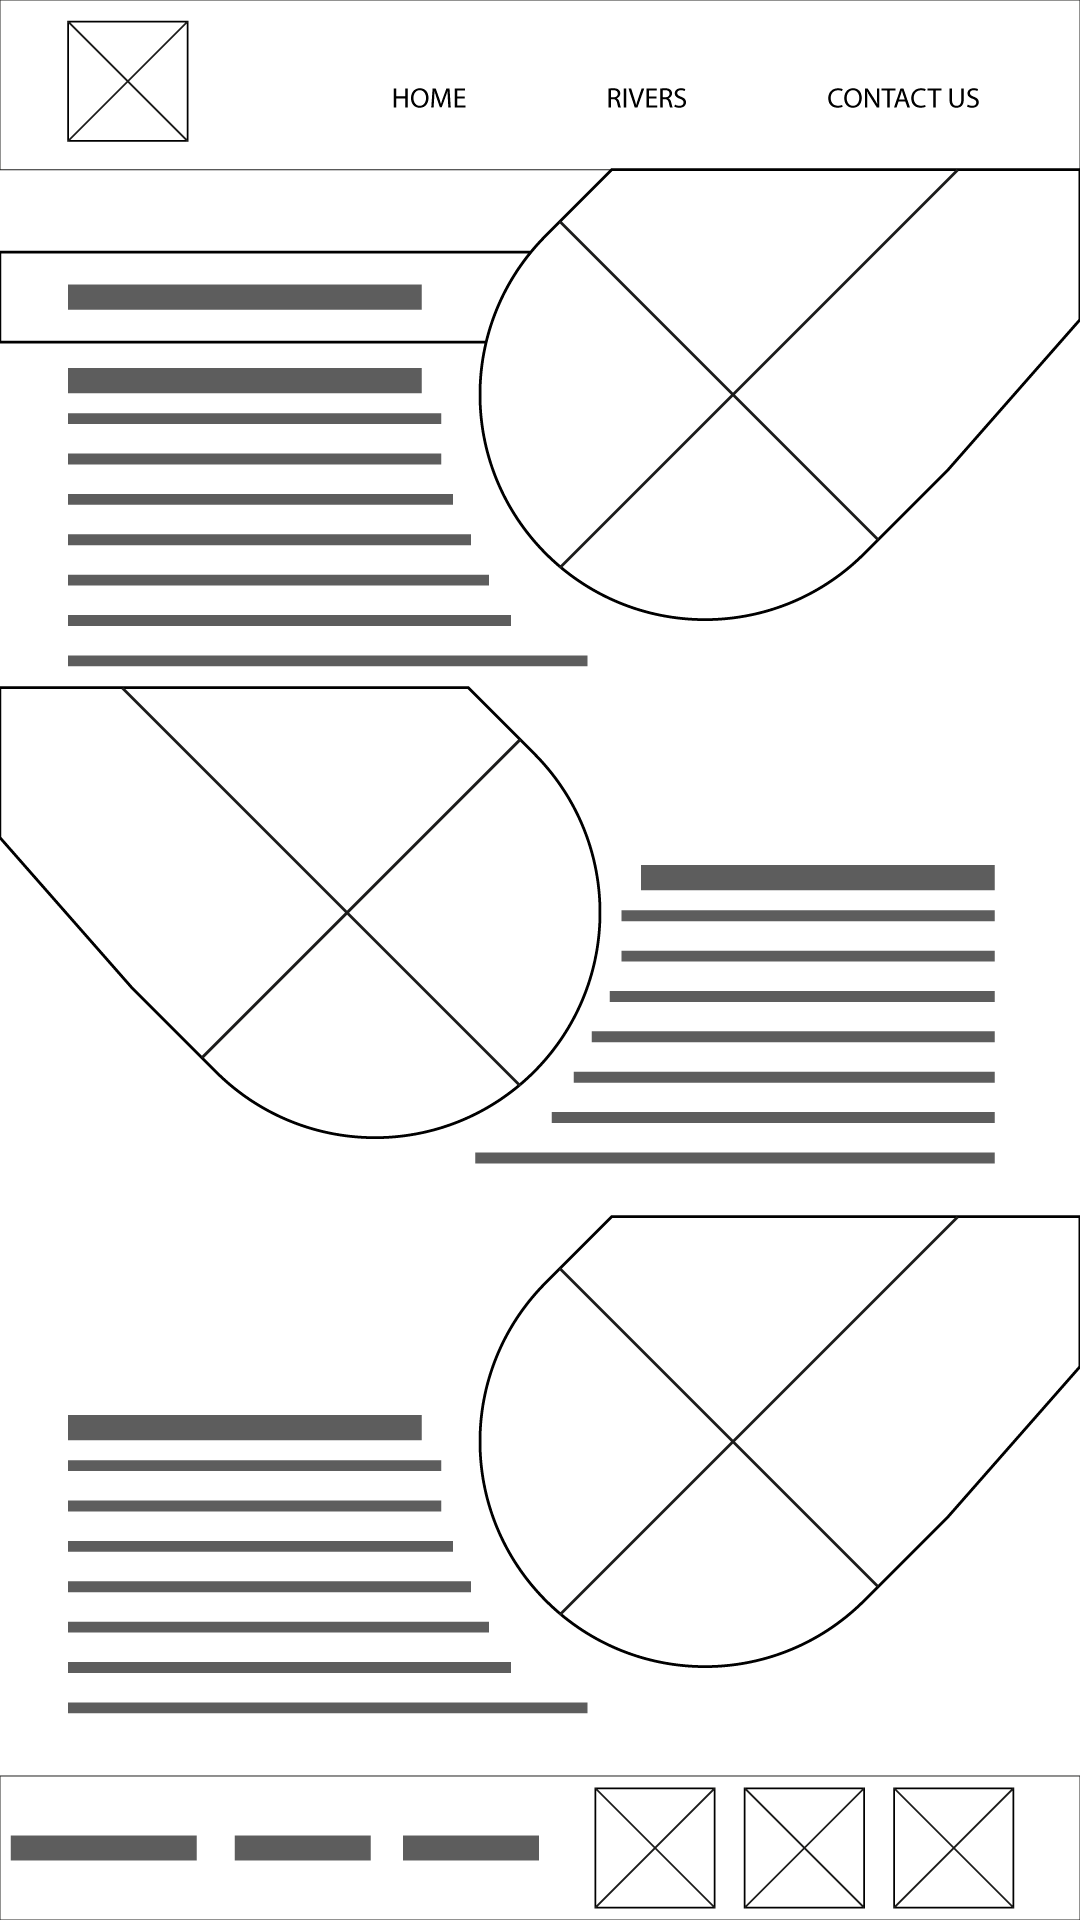
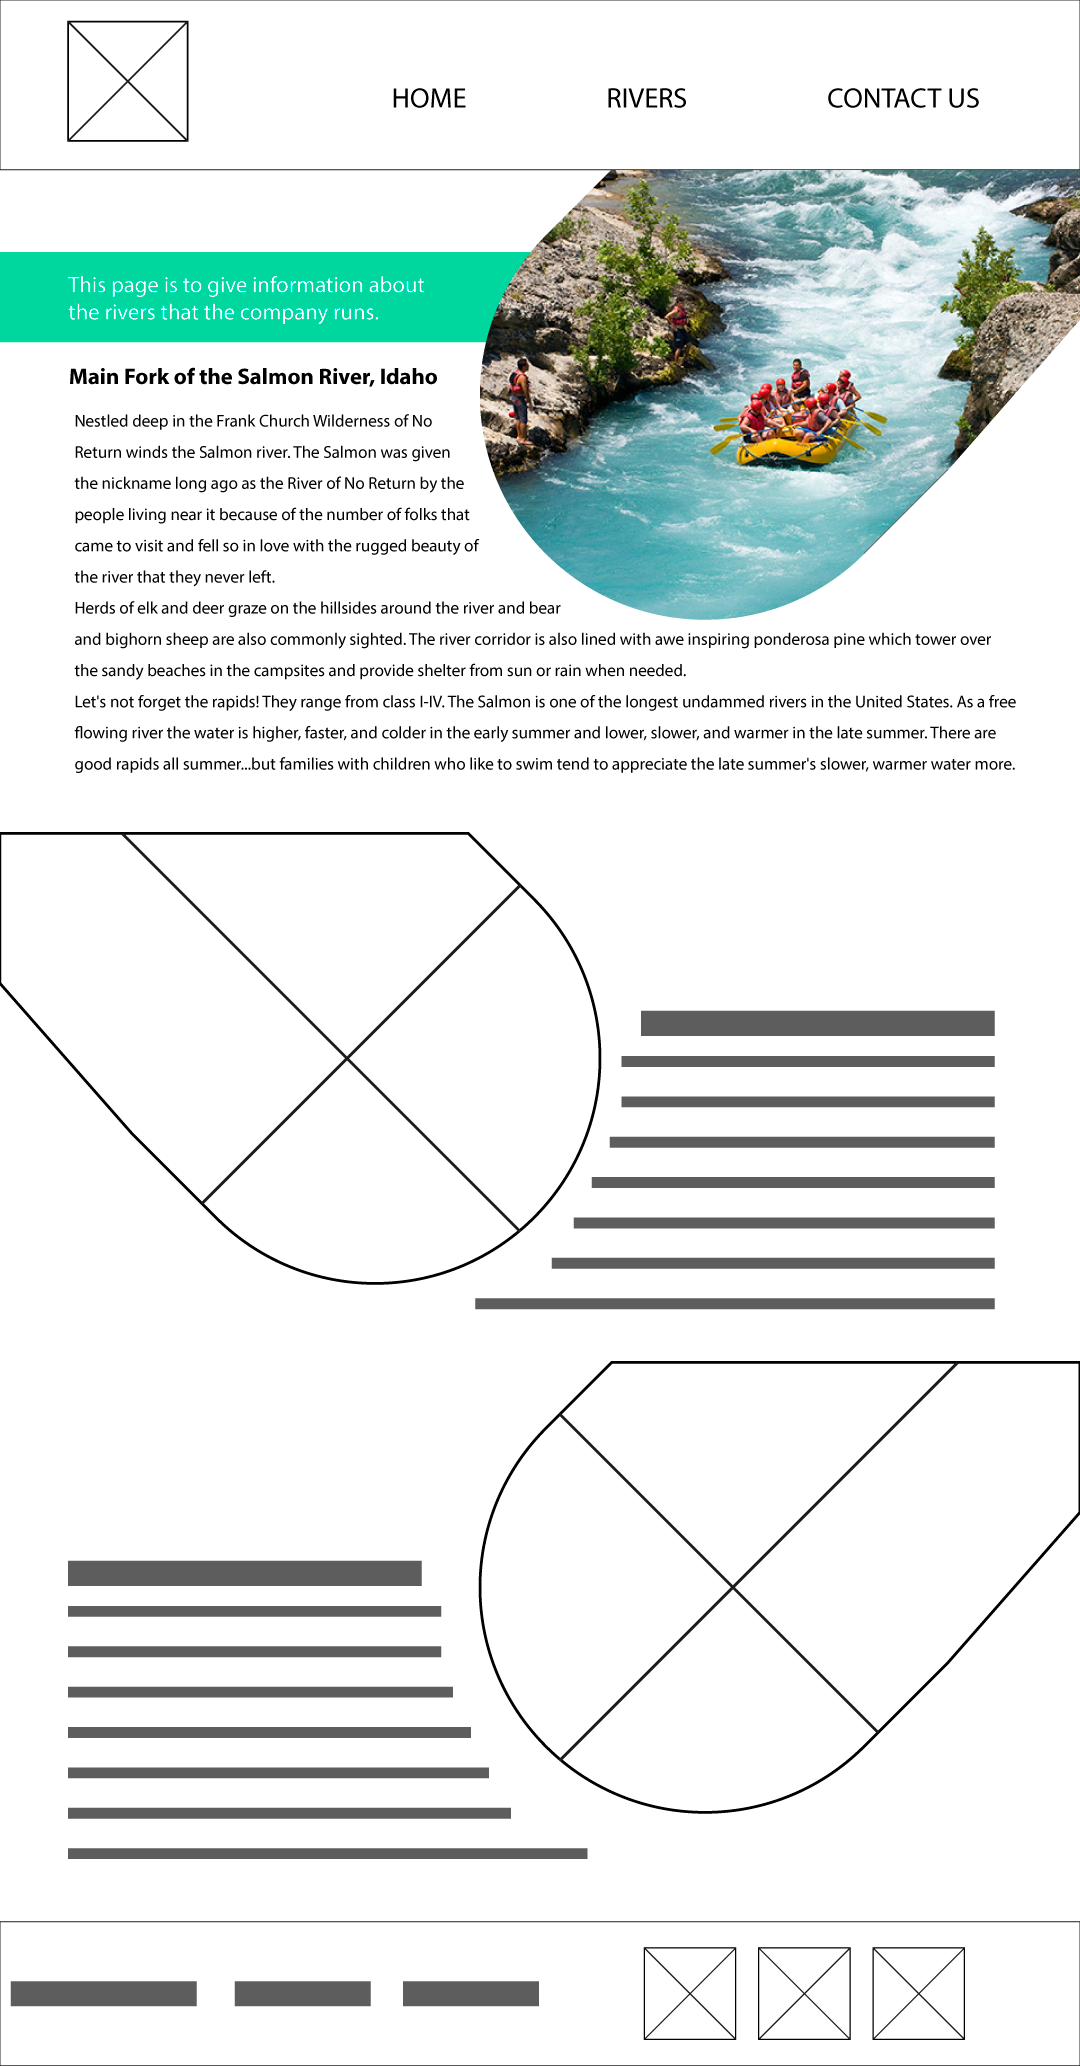
wireframe rafting site

diff --git a/wwr/river.html b/wwr/river.html
@@ -10,7 +10,7 @@
 <body>
     <p>
         Rivers
-This page is to give information about the rivers that the company runs.
+ 
 
 Main Fork of the Salmon River, Idaho
 Nestled deep in the Frank Church Wilderness of No Return winds the Salmon river. The Salmon was given the nickname long ago as the River of No Return by the people living near it because of the number of folks that came to visit and fell so in love with the rugged beauty of the river that they never left.
